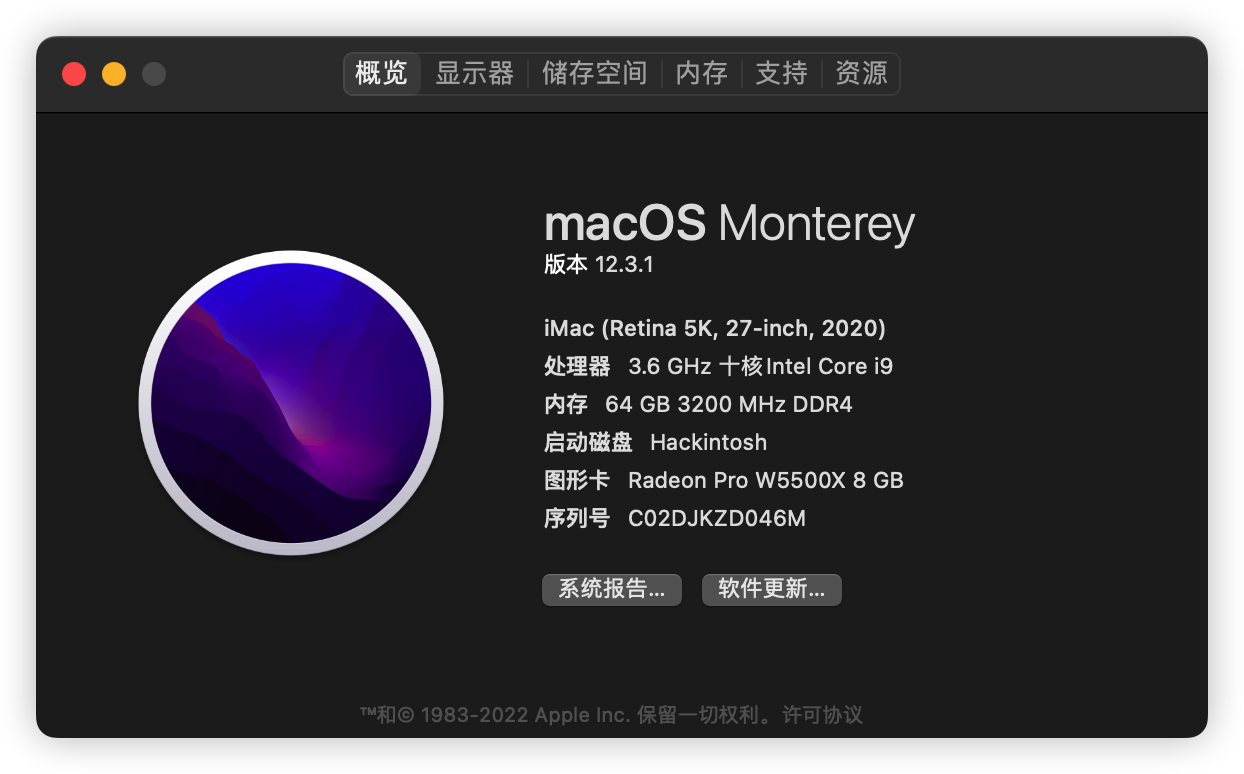
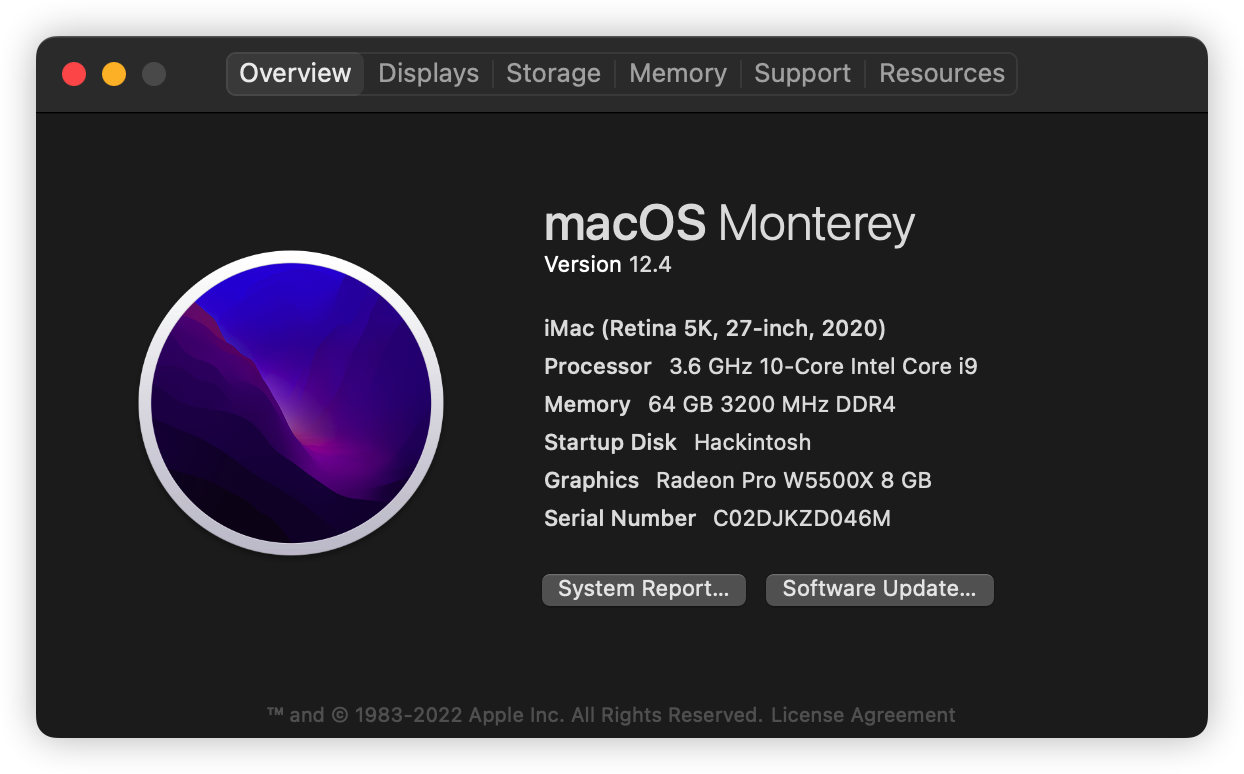
update info

diff --git a/README.md b/README.md
@@ -1,5 +1,5 @@
-[![OpenCore](https://img.shields.io/badge/OpenCore-0.8.0-yellowgreen)](https://github.com/zf1976/MSI-MEG-Z490I-Unify-Hackintosh-OC-EFI/releases/tag/OC-0.7.1)
-[![macOS](https://img.shields.io/badge/macOS-12.3.1-orange)](https://www.apple.com/macos/catalina/)
+[![OpenCore](https://img.shields.io/badge/OpenCore-0.8.1-yellowgreen)](https://github.com/zf1976/MSI-MEG-Z490I-Unify-Hackintosh-OC-EFI/releases/tag/OC-0.7.1)
+[![macOS](https://img.shields.io/badge/macOS-12.4-orange)](https://www.apple.com/macos/catalina/)
 [![MODEL](https://img.shields.io/badge/Model-Z490I-blue)](https://tw.msi.com/Motherboard/MEG-Z490I-UNIFY/)
 [![BIOS](https://img.shields.io/badge/BIOS-7C77v19-brightgreen)](#)
 
